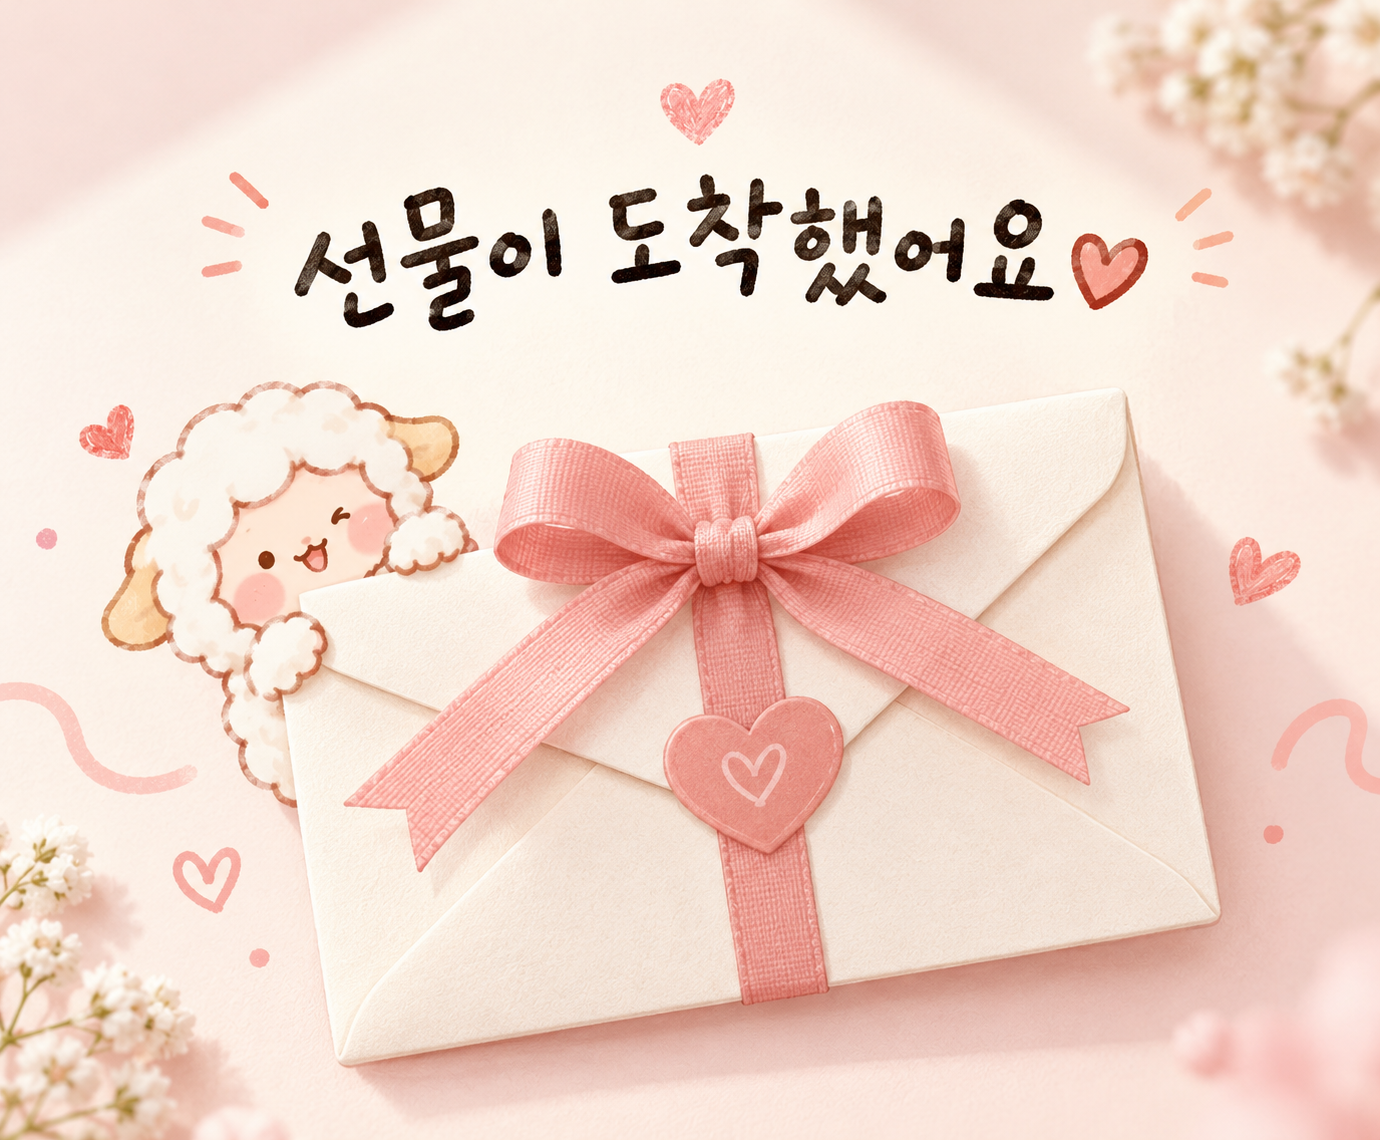
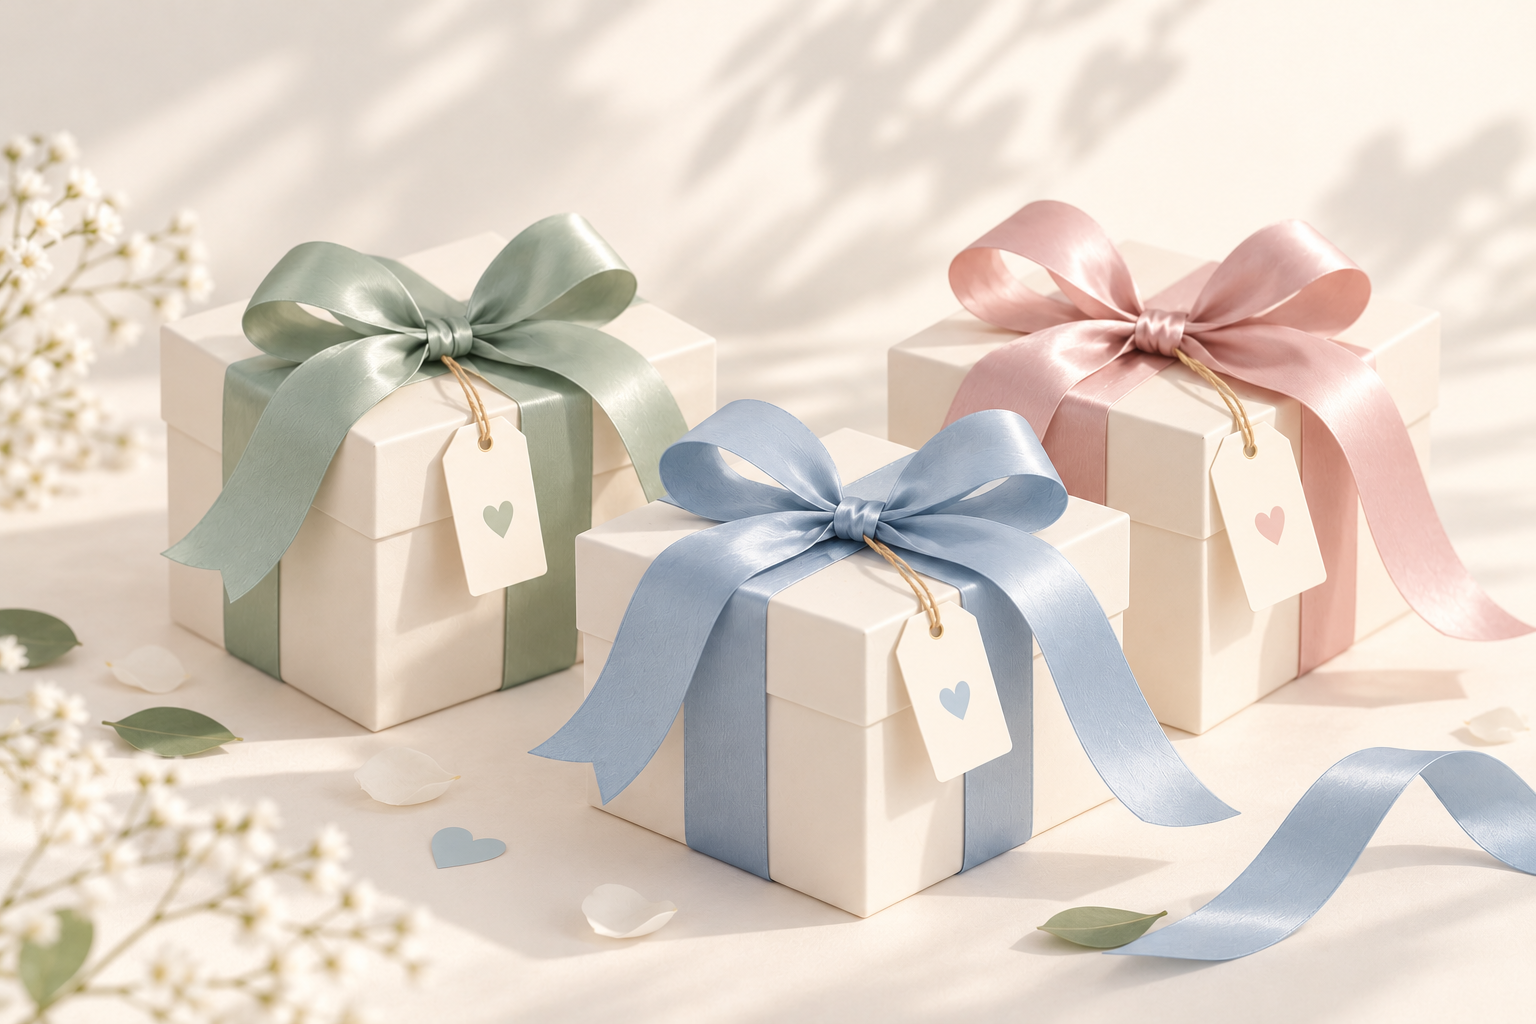
og image 변경 및 og description 수정

diff --git a/index.html b/index.html
@@ -7,12 +7,12 @@
     <meta name="theme-color" content="#fff8f5">
 
     <title>선물이 도착했어요 💌</title>
-    <meta name="description" content="특별한 소식이 담긴 편지가 도착했어요 ♡">
+    <meta name="description" content="무엇이 들어 있을까요? 열어서 확인해 보세요!">
 
     <!-- Open Graph -->
     <meta property="og:type" content="website">
     <meta property="og:title" content="선물이 도착했어요 💌">
-    <meta property="og:description" content="특별한 소식이 담긴 편지가 도착했어요 ♡">
+    <meta property="og:description" content="무엇이 들어 있을까요? 열어서 확인해 보세요!">
     <meta property="og:image" content="https://haneulworks.github.io/special-delivery/images/og-image.png">
     <meta property="og:url" content="https://haneulworks.github.io/special-delivery/">
 
